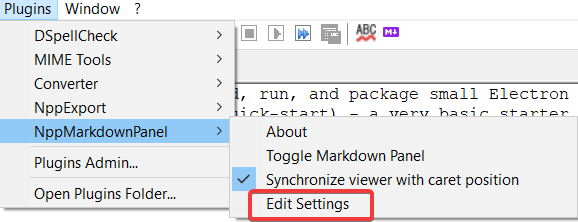
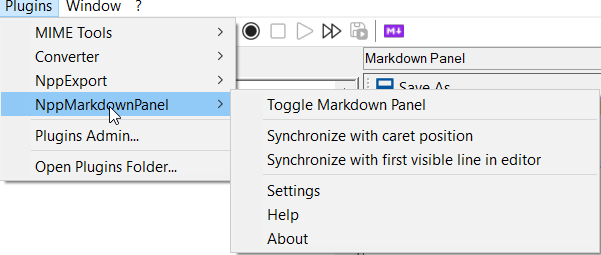
Updated README.md for Version 0.7.1

Changed region(s): [[0.0, 0.0, 1.0, 1.0]]

diff --git a/README.md b/README.md
@@ -8,7 +8,7 @@ Plugin to preview Markdown files in Notepad++
 
 ### Current Version
 
-The current version is **0.7.0** it can be found [here](https://github.com/mohzy83/NppMarkdownPanel/releases)
+The current version is **0.7.1** it can be found [here](https://github.com/mohzy83/NppMarkdownPanel/releases)
 
 ### Used libs and icons
 
@@ -56,7 +56,8 @@ With dark mode enabled in Notepad++:
 
 ### Settings
 
-To open the settings for this plugin: Plugins -> NppMarkdownPanel -> Edit Settings
+To open the settings for this plugin: Plugins -> NppMarkdownPanel -> Settings
+![npp-settings](help/open-settings.png "open settings dialog")
 
 * #### CSS File
     This allows you to select a CSS file to use if you don't want the default style of the preview
@@ -85,6 +86,10 @@ To open the settings for this plugin: Plugins -> NppMarkdownPanel -> Edit Settin
 * #### Show Toolbar in Preview Window
     Checking this box will enable the toolbar in the preview window. By default, this is unchecked.
 
+* #### Show Statusbar in Preview Window (Preview Links)
+    Checking this box will show the status bar, which previews urls for links. By default, this is unchecked.
+
+
 ### Preview Window Toolbar
 
 * #### Save As... (![save-btn](help/save-btn.png "Picture of the Save button on the preview panel toolbar"))
@@ -95,9 +100,29 @@ To open the settings for this plugin: Plugins -> NppMarkdownPanel -> Edit Settin
 Enabling this in the plugin's menu (Plugins -> NppMarkdownPanel) makes the preview panel stay in sync with the caret in the markdown document that is being edited.  
 This is similar to the _Synchronize Vertical Scrolling_ option of Notepad++ for keeping two open editing panels scrolling together.
 
+### Synchronize with first visible line in editor
+
+When this option is enabled, the plugin ensures that the first visible line in the 
+editor is also visible in the preview. (This is an alternative to _Synchronize viewer with caret position_)
 
 ## Version History
 
+### Version 0.7.1 (released 2022-12-27)
+
+- bug fixes
+	- Footnotes (links to footnotes) don't work #28
+	- Code fences not rendered for unknown languages (contributed by [rdipardo](https://github.com/rdipardo)) #55
+	- Errorhandling when libraries are missing #57
+	- Zoom label does not update on Settings panel init (contributed by [vinsworldcom](https://github.com/vinsworldcom)) #58
+	- Settings dialog should render only if visible (contributed by [vinsworldcom](https://github.com/vinsworldcom)) #66
+- features
+	- Synchronize with first visible line in editor #14
+    - Select/follow active editor pane when using mulitple editors #20
+	- YAML Frontmatter is rendered as code block #46
+	- Status bar to preview URLs for links (contributed by [vinsworldcom](https://github.com/vinsworldcom)) #60
+	- Save As toolbar button provides default directory and filename (contributed by [vinsworldcom](https://github.com/vinsworldcom)) #61
+	- Menu includes Help to access README / menu item order improved (contributed by [vinsworldcom](https://github.com/vinsworldcom)) #64
+	
 ### Version 0.7.0 (released 2022-12-09)
 
 - dark mode support
@@ -134,7 +159,6 @@ Bugfix release
 - change css file for the markdown style
 - the new settings are persistent
 - open settings dialog: Plugins-> NppMarkdownPanel -> Edit Settings
-![npp-settings](help/open-settings.png "open settings dialog")
 
 ### Version 0.4.0
 - switched from CommonMark.Net to markdig rendering library
@@ -146,10 +170,13 @@ Bugfix release
 - Initial release
 
 
-### Feature - Synchronize viewer with caret position
+### Contributors
 
-![npp-sync-caret](help/sync_caret.gif "Synchronize viewer with caret position")
+Thanks to the contributors: 
 
+[vinsworldcom](https://github.com/vinsworldcom), [rdipardo](https://github.com/rdipardo),
+[RicoP](https://github.com/RicoP), [UrsineRaven](https://github.com/UrsineRaven) and
+[eeucalyptus](https://github.com/eeucalyptus)
 
 ## License
 
